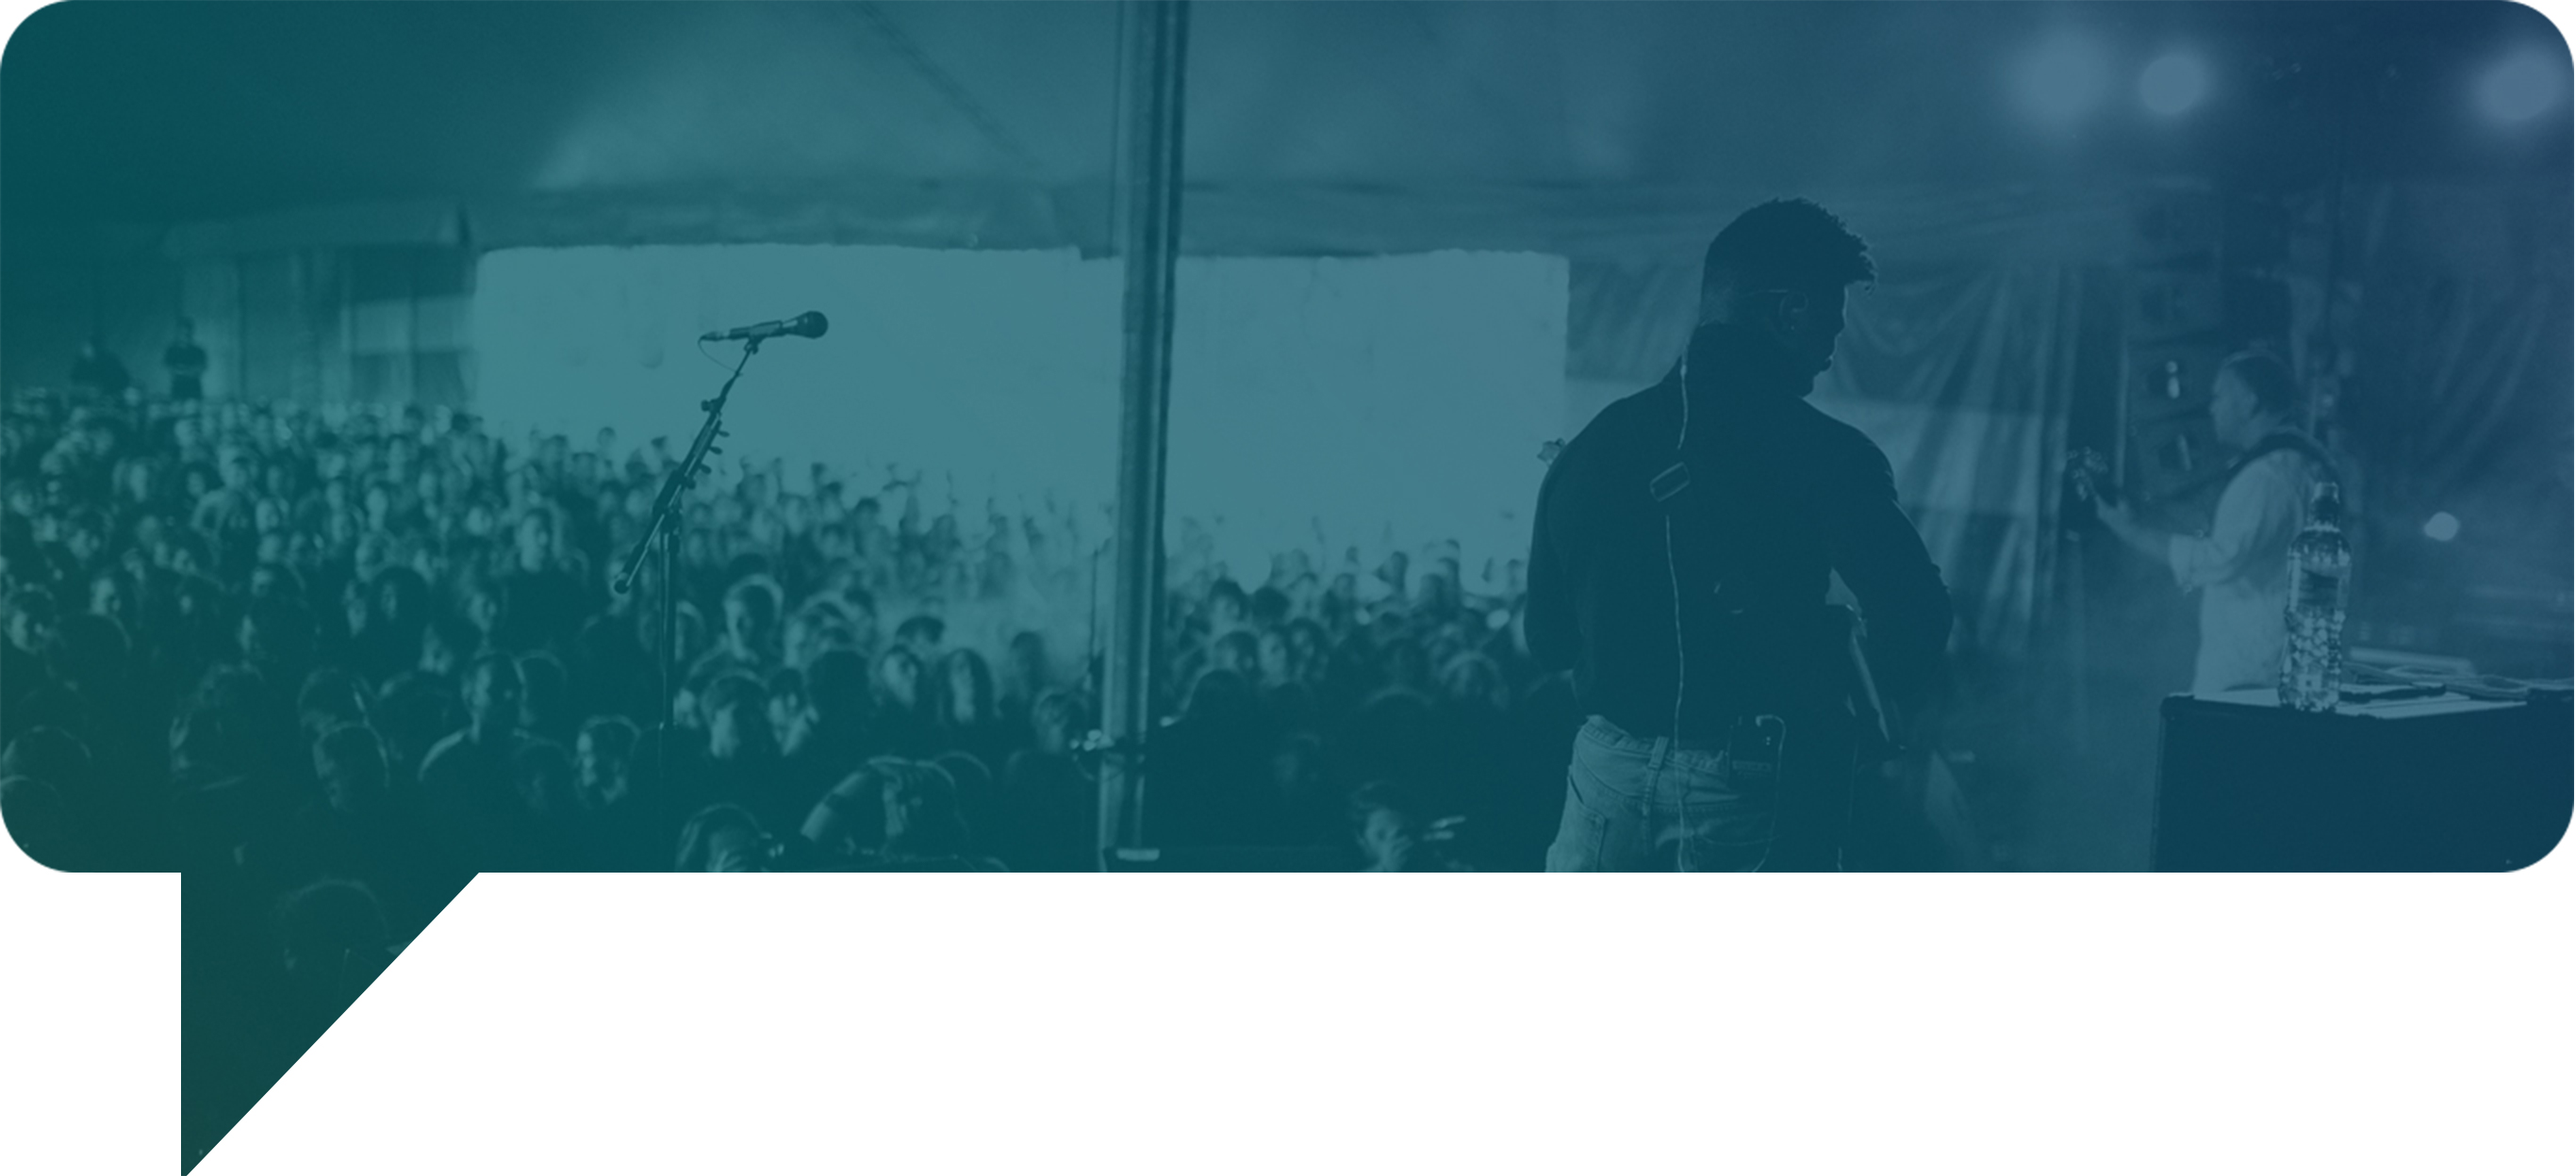
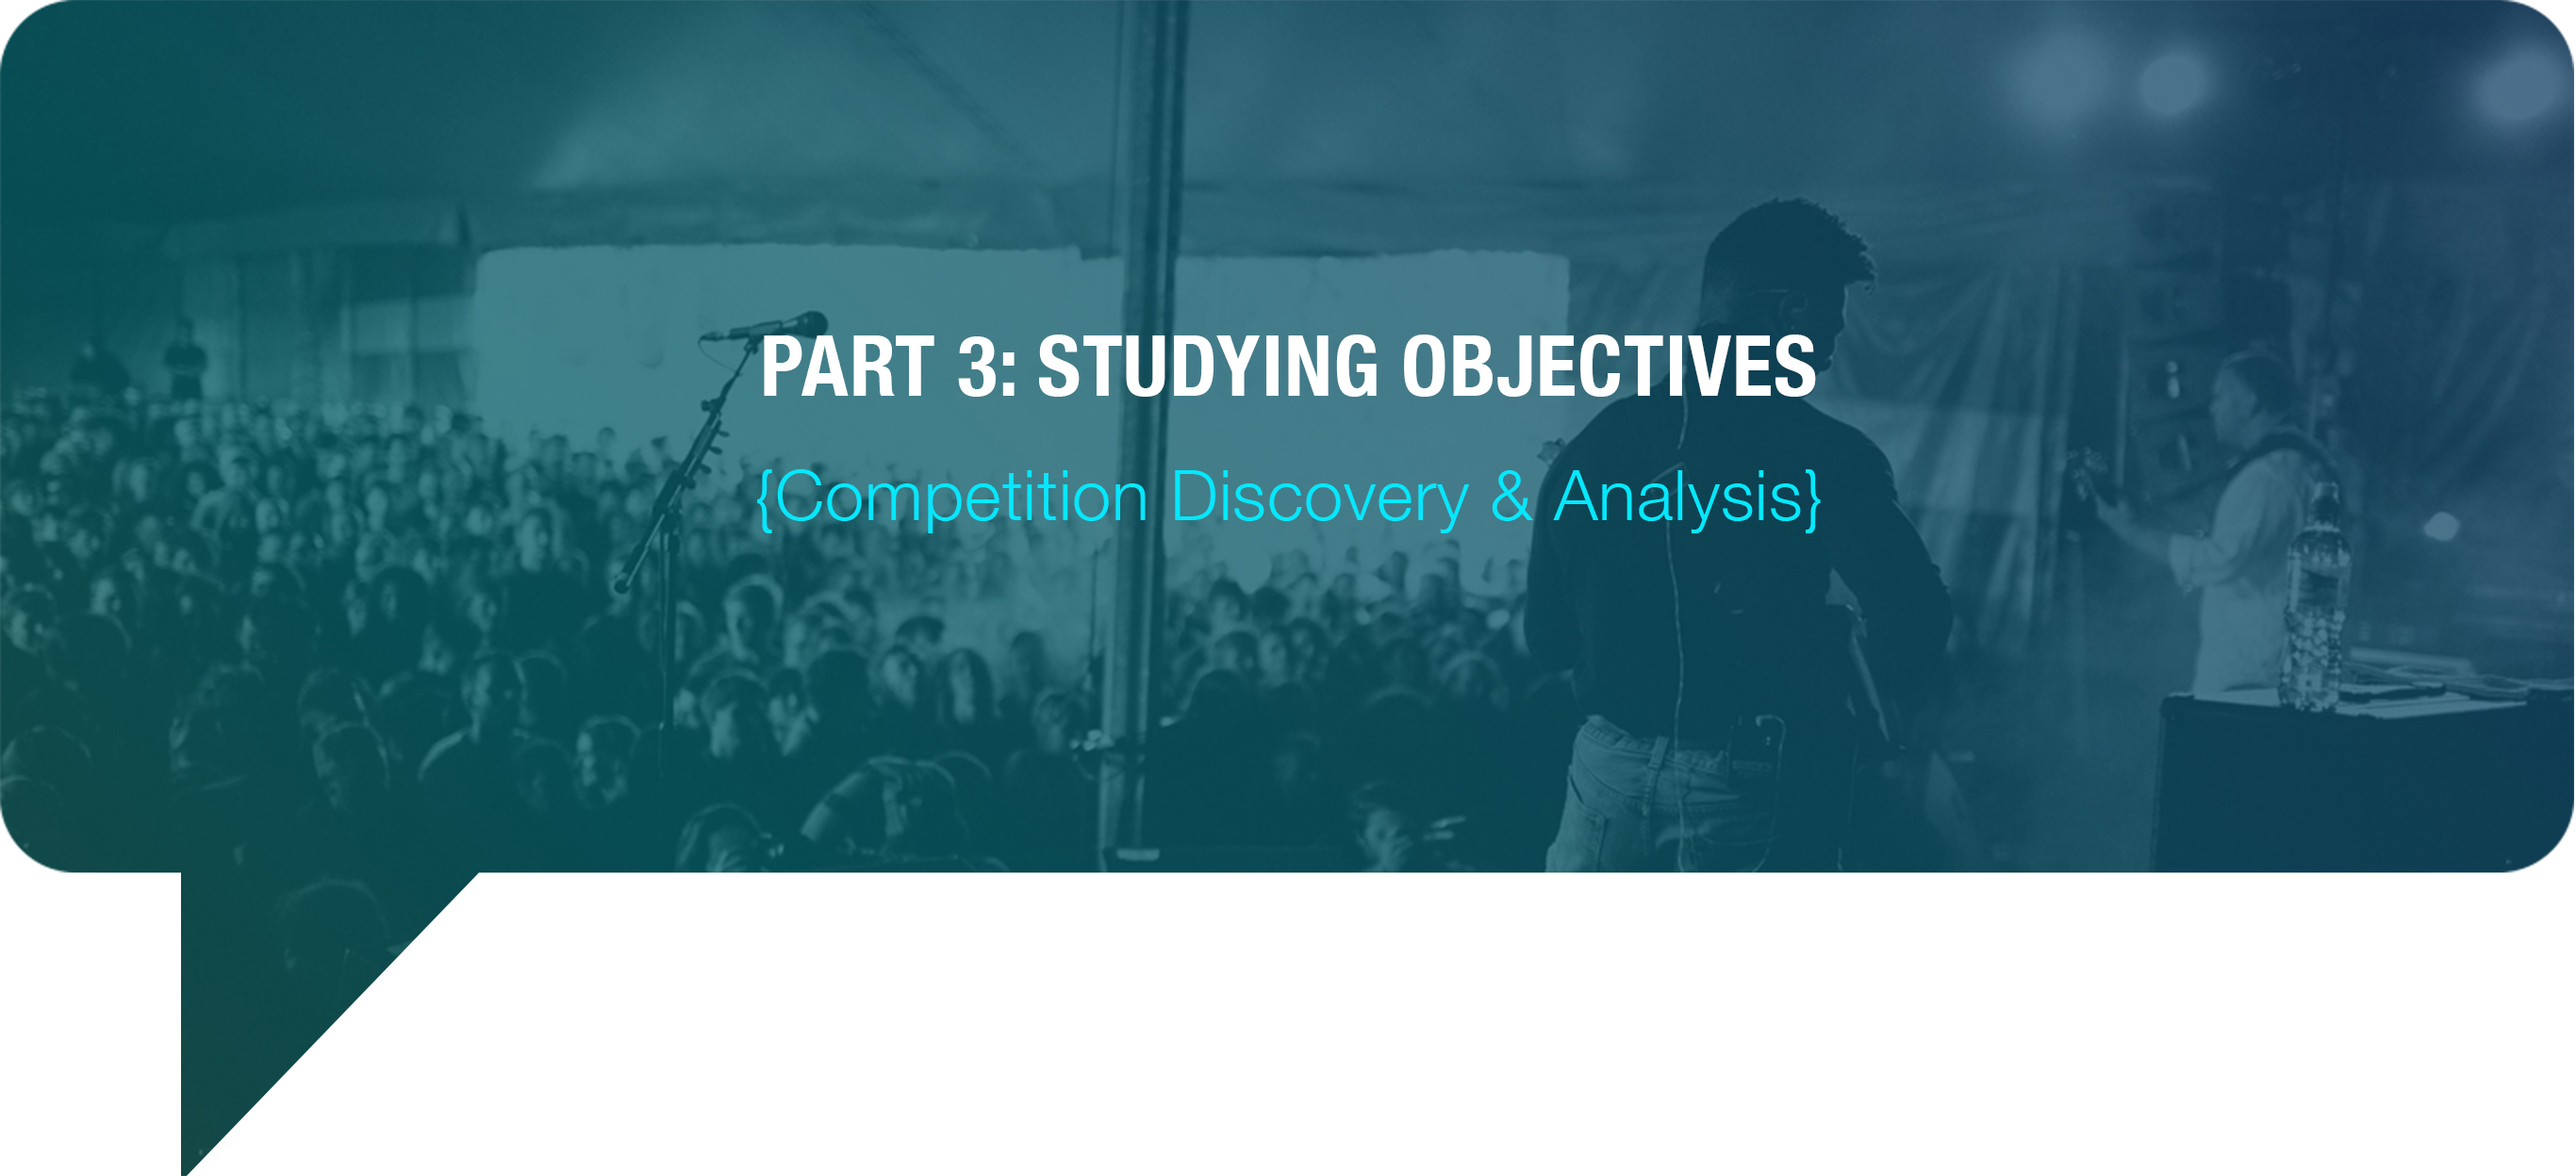
New overall layout

Changed region(s): [[0.28, 0.2812, 0.7156, 0.3438], [0.28, 0.4062, 0.7156, 0.4375]]

diff --git a/index.html b/index.html
@@ -22,11 +22,11 @@
 <img src="images/adrianmichaeldickey_uxdesigner_bg.jpg" alt="" class="bg"/>
 <img src="images/adrianmichaeldickey_uxdesigner_logo.png" alt="Adrian Michael Dickey UX Designer logo" class="logo"/>
 
+<img src="images/headerimage.jpg" alt="" class="headerimage" id="work"/>
 <div class="intro">
-  <p id="work" style="color: #ffffff; text-align: center;">Adrian Micheal Dickey UX Designer</p>
-  <h1>HI KARL:</h1>
-  <h2 style="font-size:4.68vw; color:#1c04ff; text-align:center; font-family: Montserrat; font-weight:bold; margin-top: -10px; margin-bottom: 100px;">REDESIGN<span style="color: #2b2b2b"> + </span><span style="color: #ff9904">MOBILE APP</span></h2>
-  <p>{a UX design story by Adrian Michael Dickey}</p>
+  <h1>HI KARL: REDESIGN &amp; MOBILE APP</h1>
+
+  <p style="font-size: 1.3vw; margin-bottom:80px; color: #2b2b2b; margin-bottom: 200px;">{a UX design story by Adrian Michael Dickey}</p>
 </div>
 
 
@@ -34,25 +34,25 @@
 
   <img src="images/part1.jpg" alt="" class="firstsectionimage"/>
 
-  <div class="firstsectiontext">
-     <h1>HI KARL REDESIGN + MOBILE APP</h1>
-     <h2>PART 1 | THE CASE FOR CONCERTS</h2>
+  <!--<div class="firstsectiontext">
+     <h2>PART 1: THE CASE FOR CONCERTS</h2>
      <h3>{Project Overview &amp; Current Platforms}</h3>
    </div>
+ -->
 </div>
 
-<p style="font-size:2.68vw; color:#ff9904; font-style: italic; font-family: Open Sans; margin-bottom: 20px;">"Music cures..."</p>
+<p style="font-size:2.68vw; color:#ff9904; font-family: Helvetica; margin-bottom: 20px;">"Music cures..."</p>
 
-<p style="color:#04e8ff; font-family: Open Sans; margin-top: -10px; margin-bottom: 50px;">- User Response</p>
+<p style="color:#04e8ff; font-family: Helvetica; font-weight: lighter; margin-top: -10px; margin-bottom: 50px;">- User Response</p>
 
-<p>I could not agree more with that statement. I mean who doesn't feel like they just need music in their life? And to be in front of<span style="font-style: italic"> live music?</span> A concert can truly be a healing moment and if people want to go in a last minute scenario there needs to be an easy way to help find their cure. This is exactly what drew me in to this project with Hi Karl. I want to tell you all about this story and take you through the journey in a seven part case study to show you the entire process from the very beginning phases all the way to the final experience.</p>
+<p style="font-weight: lighter">I could not agree more with that statement. I mean who doesn't feel like they just need music in their life? And to be in front of<span style="font-style: italic"> live music?</span> A concert can truly be a healing moment and if people want to go in a last minute scenario there needs to be an easy way to help find their cure. This is exactly what drew me in to this project with Hi Karl. I want to tell you all about this story and take you through the journey in a seven part case study to show you the entire process from the very beginning phases all the way to the final experience.</p>
 
-<h3 style="color: #1c04ff">Project Overview:</h3>
+<h3>Project Overview:</h3>
 
 <p>Hi Karl is a NYC-based startup company specializing in live music and event discovery in the entertainment industry. Its founders, Florian Doumenc (CEO) and Rhy Walsh-Tindall (Engineer), always found it hard to find really great concerts, and especially in a last minute scenario. In addition to their problem, they discovered that in today’s industry about 30% of all event tickets are never sold, resulting in an estimated $15B loss for revenues, artists, and promoters. Hi Karl was created to bridge this gap between its users and customers by offering promoters a platform to push and promote their events to the users who are seeking to go out and find last minute concerts. Their ultimate goal is to become the number one last minute live music and event discovery service. Karl is an AI-powered personal assistant that aggregates all events in an area, and by utilizing its target users listening habits and streaming data/analytics, Karl offers ease and efficiency in last minute event discovery.
 </p>
 
-<h3 style="color: #ff9904">Current Platforms:</h3>
+<h3>Current Platforms:</h3>
 <p style="margin-bottom: 20px;">Hi Karl is available live across three current platforms:</p>
 <p style="margin-bottom: 20px;"><span style="font-weight: bold;"><a href="m.me/HiKarl.official" style="color: #04e8ff">Facebook Messenger Chatbot</a></span></p>
 <p style="margin-bottom: 20px;"><span style="font-weight: bold;"><a href="https://www.amazon.com/dp/B06Y1T5J1T" style="color: #04e8ff">Alexa</a></span></p>
@@ -63,23 +63,31 @@
 
   <img src="images/part2.jpg" alt="" class="secondsectionimage"/>
 
-  <div class="secondsectiontext">
-     <h1>HI KARL REDESIGN + MOBILE APP</h1>
-     <h2>PART 2 | IDENTIFYING THE PROBLEM</h2>
-     <h3>{Problem Statement &amp; My Role}</h3>
-   </div>
+
 </div>
+
+<p style="font-weight: lighter">In the world of concert discovery services, I wanted to be able to identify the right problem to solve and help my client determine and understand what it is they want to accomplish. In order to help better define my vison for this case study, I decided to go ahead and define my specific role. Early in the discovery phase I set out to construct the Hi Karl problem statement and after thorough research and analysis displayed in this case study, I came up with the following:
+</p>
+
+<img src="images/Wireframeset.png" alt="" class="Wireframeset">
+
+<h3>Problem Statement:</h3>
+<p>To create an attractive, enjoyable, and intuitive design solution with user-engaging features that will help millenial concertgoers discover new and appealing last-minute concerts, while also serving as an effective opportunity for venue owners to showcase their events in order to sell any and all remaining tickets.
+</p>
+
+
+
+
+<h3>My Role:</h3>
+<p>My role in this project was to improve the user experience of Hi Karl and to also redesign and rebrand Hi Karl. Based on my research from the case study I have chosen not to focus on the Facebook Messenger chat bot service, Alexa service, or the current web platform, but instead focus on designing Hi Karl as a new stand alone mobile app. I will be focusing on the visual design, experience, and functionality of this new platform from the beginning login screen through the search and results processes. I will not be focusing on the ticket purchase aspect but solely on the UI/UX of the process of users finding a last minute concert using the new mobile application. I am responsible for all user and market research, the redesign and rebrand, UI/UX strategy, the visual design through numerous wire framing and prototyping, and the intuitive solution of a new platform for Hi Karl.
+</p>
 
 
 <div class="thirdsectionimage">
 
   <img src="images/part3.jpg" alt="" class="thirdsectionimage"/>
 
-  <div class="thirdsectiontext">
-     <h1>HI KARL REDESIGN + MOBILE APP</h1>
-     <h2>PART 3 | STUDYING OBJECTIVES</h2>
-     <h3>{Competition Discovery &amp; Analysis}</h3>
-   </div>
+
 </div>
 
 
@@ -87,11 +95,7 @@
 
   <img src="images/part4.jpg" alt="" class="fourthsectionimage"/>
 
-  <div class="fourthsectiontext">
-     <h1>HI KARL REDESIGN + MOBILE APP</h1>
-     <h2>PART 4 | UNDERSTANDING THE TARGET</h2>
-     <h3>{Users, Customers, &amp; Research Plan}</h3>
-   </div>
+
 </div>
 
 
@@ -99,11 +103,7 @@
 
   <img src="images/part5.jpg" alt="" class="fifthsectionimage"/>
 
-  <div class="fifthsectiontext">
-     <h1>HI KARL REDESIGN + MOBILE APP</h1>
-     <h2>PART 5 | THE ESSENCE OF THE DATA</h2>
-     <h3>{Interview Guide &amp; Personas}</h3>
-   </div>
+
 </div>
 
 
@@ -111,11 +111,7 @@
 
   <img src="images/part6.jpg" alt="" class="sixthsectionimage"/>
 
-  <div class="sixthsectiontext">
-     <h1>HI KARL REDESIGN + MOBILE APP</h1>
-     <h2>PART 6 | MAKING THE ULTIMATE IMPACT</h2>
-     <h3>{Goals, Constraints, &amp; The Redesign}</h3>
-   </div>
+
 </div>
 
 
@@ -123,21 +119,10 @@
 
   <img src="images/part7.jpg" alt="" class="seventhsectionimage"/>
 
-  <div class="seventhsectiontext">
-     <h1>HI KARL REDESIGN + MOBILE APP</h1>
-     <h2>PART 7 | JOURNEYS, TESTING, &amp; FINAL EXPERIENCE </h2>
-     <h3>{User Journey Map, Wireframes, Prototypes, &amp; Hi Karl}</h3>
-   </div>
+
 </div>
 
 
-
-
-<div class="Wireframeset">
-  <img src="images/Wireframeset.png" alt="" class="Wireframeset" align:"center">
-   <div class="Wireframeset-text">
-</div>
-</div>
 
 
 

diff --git a/css/style.css b/css/style.css
@@ -11,22 +11,25 @@ body {
 }
 
 .intro h1 {
-  font-family: "Montserrat";
+  font-family: "HelveticaNeue-CondensedBold", "Helvetica";
   font-weight: bold;
   color: #2b2b2b;
-  font-size: 13.75vw;
+  font-size: 4.75vw;
   text-align: center;
-  margin-top: 250px;
+  margin-top: 150px;
   margin-bottom: 0;
 }
 
 .intro p {
-  font-family: "Open Sans";
+  font-family: "Helvetica";
   color: #04e8ff;
-  font-size: 1.75vw;
+  font-weight: lighter;
+  font-size: 2.3vw;
   text-align: center;
-  margin-bottom: 140px;
+  margin-top: 30px;
 }
+
+
 
 .firstsectionimage {
   position: relative;
@@ -37,10 +40,12 @@ body {
   display: flex;
   justify-content: center;
   align-items: center;
-  padding-left: 25px;
-  padding-right: 25px;
+  padding-left: 35px;
+  padding-right: 35px;
   margin-bottom: 15px;
 }
+
+/*
 
 .firstsectiontext {
   width: 80%;
@@ -48,30 +53,29 @@ body {
   margin: auto;
   overflow: scroll;
   position: absolute;
-  top: 0; left: 0; bottom: 40px; right: 0;
+  top: 0px; left: 0; bottom: 0; right: 0;
   text-align: center;
+  align-content: center;
+  padding-bottom: 220px;
 
 }
 
-.firstsectiontext h1 {
-  font-family: "Montserrat";
-  font-weight: bold;
-  color: #ffffff;
-  font-size: 4vw;
-}
 
 .firstsectiontext h2 {
-  font-family: "Montserrat";
-  color: #ff9904;
+  font-family: "HelveticaNeue-CondensedBold", "Helvetica";
+  color: #ffffff;
   font-size: 3vw;
-  margin-top: -8px;
+  margin-top: 70px;
 }
 
 .firstsectiontext h3 {
-  font-family: "Open Sans";
+  font-family: "Helvetica";
+  font-weight: lighter;
   color: #04e8ff;
-  font-size: 2.8vw;
+  font-size: 2vw;
 }
+
+*/
 
 
 .secondsectionimage {
@@ -83,9 +87,10 @@ body {
   display: flex;
   justify-content: center;
   align-items: center;
-  padding-left: 25px;
-  padding-right: 25px;
-}
+  padding-left: 35px;
+  padding-right: 35px;
+  margin-bottom: 15px;
+  }
 
 .secondsectiontext {
   width: 80%;
@@ -93,29 +98,26 @@ body {
   margin: auto;
   overflow: scroll;
   position: absolute;
-  top: 0; left: 0; bottom: 40px; right: 0;
+  top: 0px; left: 0; bottom: 0; right: 0;
   text-align: center;
+  align-content: center;
+  padding-bottom: 220px;
 
 }
 
-.secondsectiontext h1 {
-  font-family: "Montserrat";
-  font-weight: bold;
-  color: #ffffff;
-  font-size: 4vw;
-}
 
 .secondsectiontext h2 {
-  font-family: "Montserrat";
-  color: #ff9904;
+  font-family: "HelveticaNeue-CondensedBold", "Helvetica";
+  color: #ffffff;
   font-size: 3vw;
-  margin-top: -8px;
+  margin-top: 70px;
 }
 
 .secondsectiontext h3 {
-  font-family: "Open Sans";
+  font-family: "Helvetica";
+  font-weight: lighter;
   color: #04e8ff;
-  font-size: 2.8vw;
+  font-size: 2vw;
 }
 
 
@@ -349,7 +351,7 @@ body {
   text-align: justify;
   -moz-text-align-last: center;
   text-align-last: center;
-  font-family: "Open Sans";
+  font-family: "Helvetica";
   margin-bottom: 50px;
   padding-left: 75px;
   padding-right: 75px;
@@ -361,7 +363,7 @@ body h3 {
   text-align: justify;
   -moz-text-align-last: center;
   text-align-last: center;
-  font-family: "Montserrat";
+  font-family: "HelveticaNeue-CondensedBold", "Helvetica";
   font-weight: bold;
   margin-bottom: 50px;
   padding-left: 75px;
@@ -373,6 +375,15 @@ body h3 {
   height: auto;
   width: 100%;
   margin-bottom: 0px;
+
+
+}
+
+.headerimage {
+  height: auto;
+  width: 100%;
+  margin-bottom: 0px;
+  box-shadow: 0px 6px 20px #888888;
 
 }
 
@@ -414,7 +425,8 @@ body h3 {
   width: 100%;
   display: block;
     margin-left: auto;
-    margin-right: auto
+    margin-right: auto;
+  margin-bottom: 200px;
 }
 
 
@@ -436,28 +448,17 @@ body h3 {
 
 }
 
-
-}
-
 .Wireframeset {
-  position: relative;
-  background-image: url("Wireframeset.png");
-  background-position: center;
-  background-repeat:no-repeat;
+  display: block;
+    margin-left: auto;
+    margin-right: auto;
   width: 700px;
-  display: table;
-  display: flex;
-  justify-content: center;
-  align-items: center;
-  margin:0 auto;
-  margin-top: 100px;
+  margin-bottom: 50px;
+
+
 
 }
 
-.Wireframeset-text p {
-  margin: 0px auto;
-
-}
 
 
 @media only screen and (max-width: 730px) {
